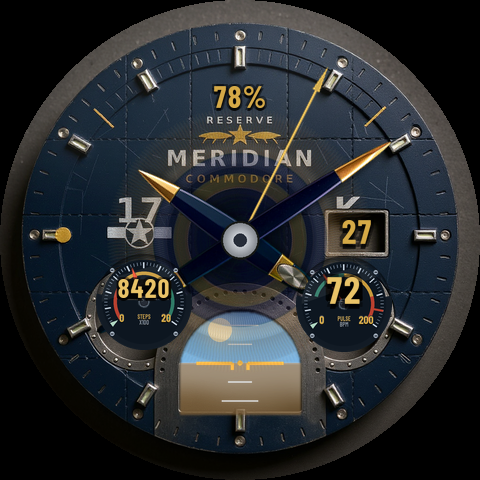
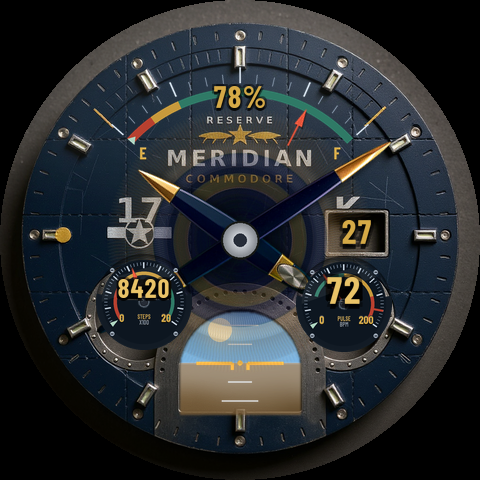
Battery becomes a fuel gauge: E to F, arcs, and a spade needle
An arc across the top of the dial rather than a third round well. The round
sub-dial positions are taken and the upper half belongs to the wordmark, but
a sector IS how aircraft fuel is very often shown — and the one clear band
left on this plate is exactly that sweep. Measured: r=152, from -48 to +48
degrees, dead navy the whole way, inside the hour markers and above RESERVE.

It keeps the part of the grammar that carries meaning. E to 1/8 is RED
because that is reserve, 1/8 to 1/4 amber, the rest green, and the luminous
index sits at the EMPTY end rather than at zero-as-origin — that is the end
you need to find in the dark. Majors at E, 1/4, 1/2, 3/4, F with four minors
between, per the AN convention already documented.

The needle rides just inside its own scale instead of reaching the hub.
Geometrically a sector pointer does pivot at the arc's centre, which here is
the middle of the watch — but drawn full length it swept straight across the
MERIDIAN wordmark and the wing emblem. Short pointers beside their scale are
commonplace on real arc instruments and it is the only version that does not
vandalise the dial. Verified by measurement rather than by eye: ink spans
r=107..147 against the arc at 152.

E and F moved inboard of the arc for the same class of reason — outboard of
r=152 the ends of the sweep run into the 10 and 2 o'clock hour markers.

The base face's plain cm_reserve_needle is dropped, not overdrawn.

Validator PASS, memory footprint PASS.

diff --git a/tools/make_an_gauge.py b/tools/make_an_gauge.py
@@ -369,6 +369,99 @@ def build(key: str, size: int, counter: str | None = None,
 COUNTER_CY = 0.36       # c * 0.72 expressed against the full sprite
 
 
+def fuel_arc(canvas: int, cx: float, cy: float, r: float, start: float,
+             sweep: float, pal: dict | None = None) -> Image.Image:
+    """A FUEL GAUGE, drawn as an arc across the top of the dial.
+
+    Not every aircraft instrument is a full circle. Fuel is very often a
+    sector sweeping E to F across the top of a panel, and that is lucky here:
+    the round sub-dial positions are taken, and the one clear band left on
+    this plate is exactly this arc — inside the hour markers, outside the
+    wordmark, all of it dead navy.
+
+    The grammar is the same twelve elements as a round instrument, minus the
+    ones a sector does not have (no well, no hub). What it keeps is the part
+    that matters: E to 1/8 is RED because that is reserve, 1/8 to 1/4 amber,
+    and the rest green. A fuel gauge that does not tell you when to worry is
+    just a bar chart.
+    """
+    p = dict(PALETTE, **(pal or {}))
+    S = canvas * SS
+    img = Image.new("RGBA", (S, S), (0, 0, 0, 0))
+    d = ImageDraw.Draw(img)
+    CX, CY, R = cx * SS, cy * SS, r * SS
+    w_arc = max(2, int(R * 0.055))
+
+    def at(frac, rad):
+        a = math.radians(start + sweep * frac - 90.0)
+        return (CX + math.cos(a) * rad, CY + math.sin(a) * rad)
+
+    box = [CX - R, CY - R, CX + R, CY + R]
+    for f0, f1, key in ((0.0, 0.125, "arc_lim"), (0.125, 0.25, "arc_warn"),
+                        (0.25, 1.0, "arc_ok")):
+        d.arc(box, start + sweep * f0 - 90, start + sweep * f1 - 90,
+              fill=p[key], width=w_arc)
+
+    # graduations: majors at E, 1/4, 1/2, 3/4, F with four minors between
+    for i in range(4 * 4 + 1):
+        f = i / 16.0
+        major = i % 4 == 0
+        r0 = R + w_arc * (0.6 if major else 0.6)
+        r1 = R + w_arc * (2.5 if major else 1.7)
+        d.line([at(f, r0), at(f, r1)],
+               fill=p["grad"] if major else p["grad_dim"],
+               width=max(1, int(SS * (1.8 if major else 1.0))))
+
+    # the reserve end gets the luminous index, because that is the end you
+    # need to find at a glance in the dark
+    tip = at(0.0, R - w_arc * 1.2)
+    b1 = at(0.0, R - w_arc * 0.1)
+    b2 = at(0.028, R - w_arc * 0.6)
+    d.polygon([tip, b1, b2], fill=p["lume"])
+
+    try:
+        f_lab = ImageFont.truetype(FONT, max(7, int(canvas * 0.036)) * SS)
+    except OSError:
+        f_lab = ImageFont.load_default()
+    # Inside the arc, not outside it: outboard of r=152 the ends of the
+    # sweep run straight into the 10 and 2 o'clock hour markers.
+    for f, txt in ((0.0, "E"), (1.0, "F")):
+        engrave(d, at(f, R - w_arc * 2.6), txt, f_lab, p["ink"], p, depth=0.9)
+    return img.resize((canvas, canvas), Image.LANCZOS)
+
+
+def fuel_needle(canvas: int, cx: float, cy: float, r_tip: float,
+                pal: dict | None = None, r_tail: float | None = None
+                ) -> Image.Image:
+    """The fuel pointer, drawn straight up so the face rotates it by value.
+
+    It rides just inside the scale rather than reaching the hub. A sector
+    gauge's pointer does geometrically pivot at the arc's centre — which here
+    is the middle of the watch — but drawn full length it sweeps straight
+    across the MERIDIAN wordmark and the wing emblem. A short pointer beside
+    its own scale is commonplace on real arc instruments and is the only
+    version that does not vandalise the dial.
+    """
+    p = dict(PALETTE, **(pal or {}))
+    S = canvas * SS
+    img = Image.new("RGBA", (S, S), (0, 0, 0, 0))
+    d = ImageDraw.Draw(img)
+    CX, CY = cx * SS, cy * SS
+    tip = r_tip * SS
+    tail_r = (r_tail if r_tail is not None else r_tip * 0.74) * SS
+    spade = tip - (tip - tail_r) * 0.45
+    ws = max(1, int(SS * 1.7))
+    wsp = max(2, int(SS * 4.2))
+    o = SS * 1.5
+    d.polygon([(CX + o, CY - tip + o), (CX - wsp + o, CY - spade + o),
+               (CX + wsp + o, CY - spade + o)], fill=(0, 0, 0, 120))
+    d.line([(CX, CY - tail_r), (CX, CY - spade)], fill=p["pointer"],
+           width=ws)
+    d.polygon([(CX, CY - tip), (CX - wsp, CY - spade), (CX + wsp, CY - spade)],
+              fill=p["pointer"])
+    return img.resize((canvas, canvas), Image.LANCZOS)
+
+
 GLYPH_H = 44           # native cell; the face scales it down per readout
 
 

diff --git a/tools/make_pro_face.py b/tools/make_pro_face.py
@@ -156,6 +156,10 @@ DIALS = {
                   lo=0, hi=200, digits=27),
 }
 START_DEG, SWEEP_DEG = 235.0, 250.0
+
+# The fuel sweep, kept identical to the base face's reserve needle mapping so
+# the needle lands where the plate always expected it to.
+FUEL_START, FUEL_SWEEP, FUEL_R = -48.0, 96.0, 152.0
 COUNTER_CY = 0.36        # must match make_an_gauge.COUNTER_CY
 
 
@@ -198,6 +202,20 @@ def instruments(pre: str) -> list[str]:
     four digits of steps never will be at this dial size.
     """
     o = []
+    # --- fuel: the scale, then the needle over it ----------------------
+    o += [f'    <PartImage name="z11_fuel_arc" x="0" y="0" width="480" '
+          f'height="480" alpha="255">',
+          f'      {AMB}',
+          f'      <Image resource="{pre}_fuel_arc" />',
+          '    </PartImage>',
+          f'    <PartImage name="z11_fuel_needle" x="0" y="0" width="480" '
+          f'height="480" alpha="255" pivotX="0.5" pivotY="0.5">',
+          f'      {AMB}',
+          f'      <Transform target="angle" value="{FUEL_START} + '
+          f'{FUEL_SWEEP} * clamp([BATTERY_PERCENT], 0, 100) / 100" />',
+          f'      <Image resource="{pre}_fuel_needle" />',
+          '    </PartImage>']
+
     for key, c in DIALS.items():
         cx, cy = c["centre"]
         n = c["size"]
@@ -454,9 +472,9 @@ def build_xml(face: str) -> str:
     # clearance from each sub-dial centre where the box implied about 25.
     tail = src[src.index('    <PartImage name="z10_airscrew"'):
                src.index('  </Scene>')]
-    drop = ("z12_gauge_steps", "z13_gauge_bpm", "z14_steps_needle",
-            "z15_bpm_needle", "z20_reserve_pct", "z21_steps", "z22_bpm",
-            "z23_date")
+    drop = ("z11_reserve", "z12_gauge_steps", "z13_gauge_bpm",
+            "z14_steps_needle", "z15_bpm_needle", "z20_reserve_pct",
+            "z21_steps", "z22_bpm", "z23_date")
     kept, skip = [], False
     for line in tail.splitlines():
         st = line.strip()
@@ -498,6 +516,17 @@ def an_gauges(face: str, dd: Path) -> None:
         pre = cfg(face)["prefix"]
         gimg.save(dd / f"{pre}_gauge_{key}.png", optimize=True)
         pimg.save(dd / f"{pre}_ptr_{key}.png", optimize=True)
+    # The fuel gauge: an arc across the top of the dial rather than a third
+    # round well, because the round positions are taken and the one clear
+    # band left on this plate is exactly this sweep — inside the hour
+    # markers, above the wordmark, all of it dead navy at r=150.
+    pre = cfg(face)["prefix"]
+    G.fuel_arc(480, 240, 240, FUEL_R, FUEL_START, FUEL_SWEEP).save(
+        dd / f"{pre}_fuel_arc.png", optimize=True)
+    G.fuel_needle(480, 240, 240, FUEL_R - 5,
+                  r_tail=FUEL_R - 46).save(
+        dd / f"{pre}_fuel_needle.png", optimize=True)
+
     global FONT_WIDTHS, GLYPH_H
     FONT_WIDTHS = G.bitmap_glyphs(dd, prefix="cp")
     GLYPH_H = G.GLYPH_H
